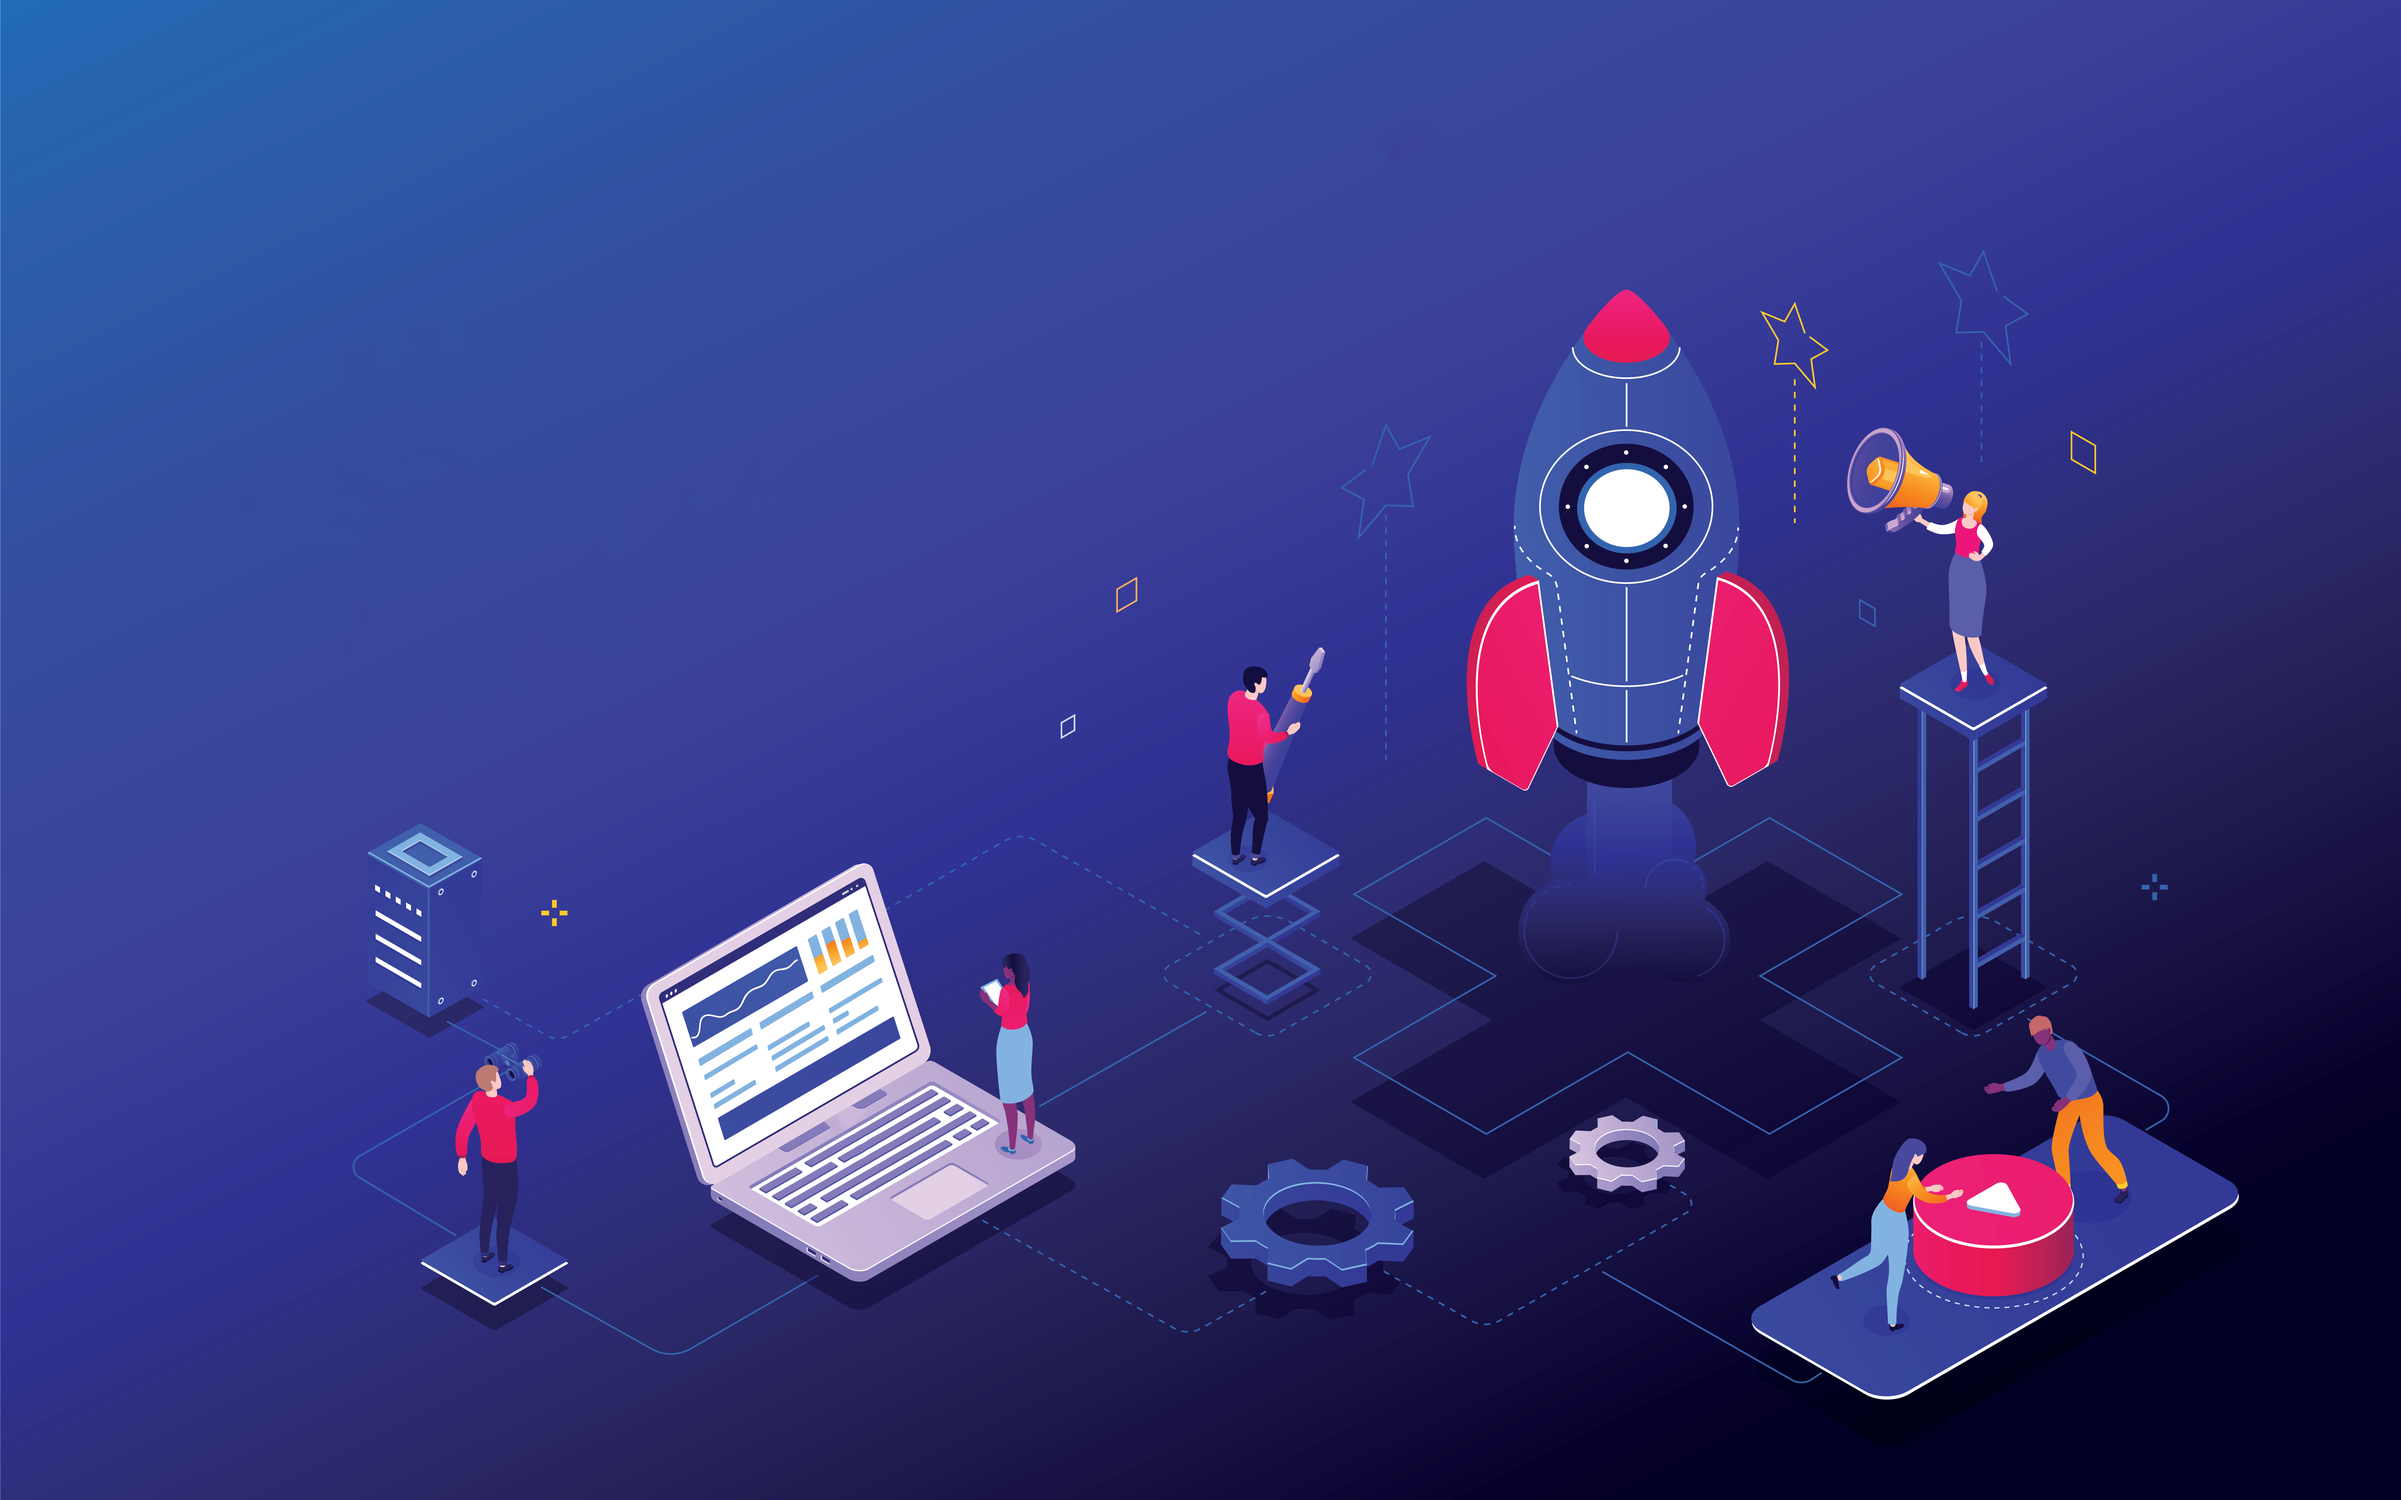
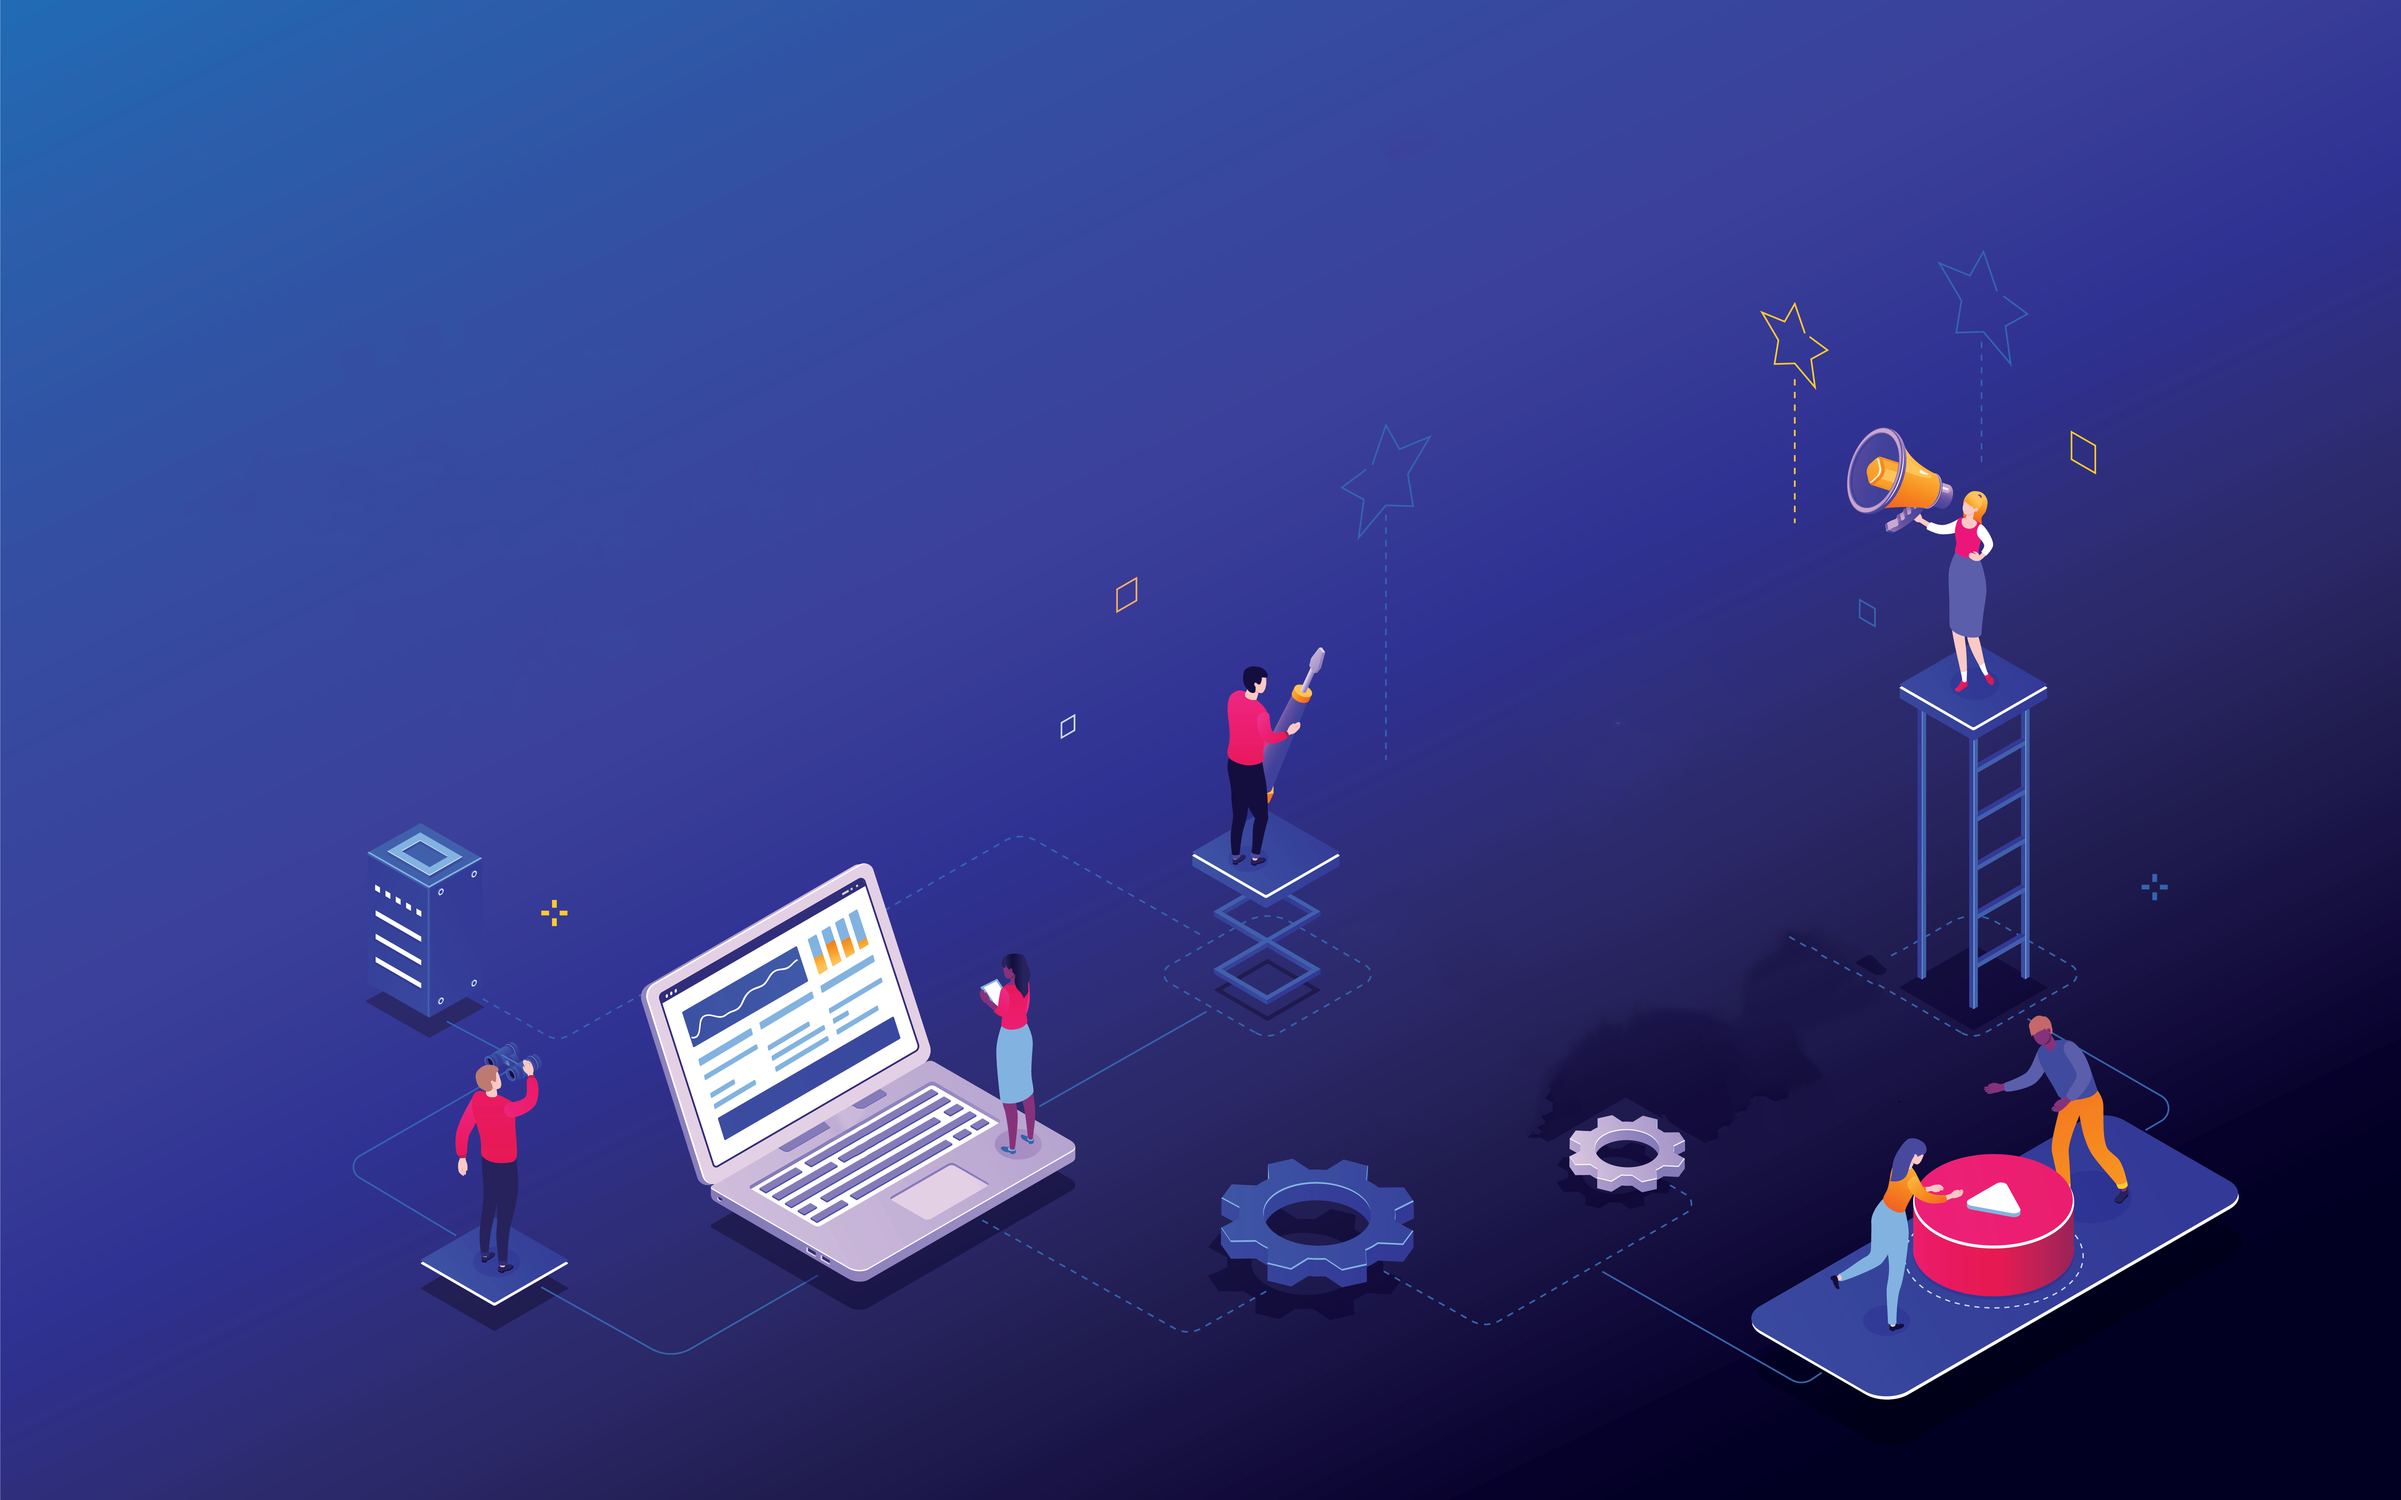
final styles

Changed region(s): [[0.5616, 0.1872, 0.7488, 0.6863]]

diff --git a/react-app/src/components/auth/SignUpForm.js b/react-app/src/components/auth/SignUpForm.js
@@ -55,75 +55,76 @@ const SignUpForm = ({authenticated, setAuthenticated}) => {
   return (
     <Container>
       <Row className="d-flex justify-content-center form-wrapper-register ">
-        <form
-          onSubmit={onSignUp}
-          className="form"
-        >
+        <form onSubmit={onSignUp} className="form">
           <p className="tiny-text welcome">Welcome!</p>
           <h1 className="form-title">Sign up</h1>
           <Row className="name-box">
-          <Col className="label-wrapper">
-            <label className="label">First Name</label>
-            <input
-              type="text"
-              name="firstname"
-              onChange={updateFirstname}
-              value={firstname}
-              className="input"
-            ></input>
-          </Col>
-          <Col className="label-wrapper">
-            <label className="label">Last Name</label>
-            <input
-              type="text"
-              name="lastname"
-              onChange={updateLastname}
-              value={lastname}
-              className="input"
-            ></input>
-          </Col>
+            <Col className="label-wrapper">
+              <label className="label">First Name</label>
+              <input
+                type="text"
+                name="firstname"
+                onChange={updateFirstname}
+                value={firstname}
+                className="input"
+              ></input>
+            </Col>
+            <Col className="label-wrapper">
+              <label className="label">Last Name</label>
+              <input
+                type="text"
+                name="lastname"
+                onChange={updateLastname}
+                value={lastname}
+                className="input"
+              ></input>
+            </Col>
           </Row>
-          <div className="label-wrapper">
-            <label className="label">User Name</label>
-            <input
-              type="text"
-              name="username"
-              onChange={updateUsername}
-              value={username}
-              className="input"
-            ></input>
-          </div>
-          <div className="label-wrapper">
-            <label className="label">Email</label>
-            <input
-              type="text"
-              name="email"
-              onChange={updateEmail}
-              value={email}
-              className="input"
-            ></input>
-          </div>
-          <div className="label-wrapper">
-            <label className="label">Password</label>
-            <input
-              type="password"
-              name="password"
-              onChange={updatePassword}
-              value={password}
-              className="input"
-            ></input>
-          </div>
-          <div className="label-wrapper">
-            <label className="label">Repeat Password</label>
-            <input
-              type="password"
-              name="repeat_password"
-              onChange={updateRepeatPassword}
-              value={repeatPassword}
-              required={true}
-              className="input"
-            ></input>
-          </div>
+          <Row className="name-box">
+            <Col className="label-wrapper">
+              <label className="label">User Name</label>
+              <input
+                type="text"
+                name="username"
+                onChange={updateUsername}
+                value={username}
+                className="input"
+              ></input>
+            </Col>
+            <Col className="label-wrapper">
+              <label className="label">Email</label>
+              <input
+                type="text"
+                name="email"
+                onChange={updateEmail}
+                value={email}
+                className="input"
+              ></input>
+            </Col>
+          </Row>
+          <Row className="name-box">
+            <Col className="label-wrapper">
+              <label className="label">Password</label>
+              <input
+                type="password"
+                name="password"
+                onChange={updatePassword}
+                value={password}
+                className="input"
+              ></input>
+            </Col>
+            <Col className="label-wrapper">
+              <label className="label">Repeat Password</label>
+              <input
+                type="password"
+                name="repeat_password"
+                onChange={updateRepeatPassword}
+                value={repeatPassword}
+                required={true}
+                className="input"
+              ></input>
+            </Col>
+          </Row>
           <button className="demo-button-home" type="submit">
             Sign Up
           </button>

diff --git a/react-app/src/index.css b/react-app/src/index.css
@@ -8,12 +8,17 @@
 /******* 404 page styles*/
 #root {
     height: calc(100vh);
-    background-image: linear-gradient(to bottom, #001c44, #1b1330, #1d0c1e, #15050f, #000000);
-    background-image: url("./components/images/homepage.png");
+    background-color: #191446;
+    background-image: linear-gradient(316deg,#191446 = 0%,  #281a3d 74%);
     font-family: 'Barlow', sans-serif;
     max-width: 100%;
     overflow: hidden;
     background-size: cover;
+}
+
+.home_image {
+    width: 650px;
+    position: relative;
 }
 
 html, body {
@@ -109,19 +114,19 @@ nav {
 }
 
 .active {
-    color: #11c900 !important;
+    color: #2ad45d !important;
     font-weight: 600;
-    text-shadow: #11c90077 0px 4px 10px, #11c90083 0px 1px 10px;
+    text-shadow: #001c4469 0px 4px 10px, #001c446e 0px 1px 10px;
 }
 
 a {
     font-weight: 400;
-    color: #687293 !important;
+    color:#5d677c !important;
 }
 
 .navbar_link:hover{
     text-decoration: underline;
-    text-decoration-color: #11c900;
+    text-decoration-color: #5d677c;
     text-decoration-thickness: 2px;
 }
 
@@ -167,7 +172,7 @@ a {
     font-family: 'Barlow', sans-serif;
     color: white;
     font-weight: 800;
-    font-size: 75px;
+    font-size: 65px;
 }
 
 .main-header-container {
@@ -179,8 +184,8 @@ a {
 }
 
 .home-cta {
-    color: #11c900;
-    font-weight: 300;
+    color: #50ca2a;
+    font-weight: 800;
 }
 
 
@@ -191,7 +196,7 @@ a {
 }
 
 
-.demo-button-home  {background-image: linear-gradient(to right, #2d762b 0%, #4e4376  51%, #2b7653  100%)}
+.demo-button-home  {background-image: linear-gradient(to right, #41e23c 0%, #14c82c  51%, #2b7653  100%)}
 .demo-button-home  {
 margin-top: 30px;
 padding: 15px 45px;

diff --git a/react-app/src/components/static_pages/Home.js b/react-app/src/components/static_pages/Home.js
@@ -1,6 +1,6 @@
 import React from 'react'
 import { Row, Col, Container } from "react-bootstrap/";
-import spaceman from "../images/spaceman2.png";
+import spaceman from "../images/spaceship.png";
 import DemoButton from "../auth/DemoButton"
 
 const Home = ({ setAuthenticated }) => {
@@ -25,9 +25,12 @@ const Home = ({ setAuthenticated }) => {
             </h1>
             <DemoButton setAuthenticated={setAuthenticated}/>
           </Col>
-          <Col className="main-header-container">
-                    
-          </Col>
+                    <img
+                        alt="home-spaceman"
+              src={spaceman}
+              width="600"
+              className="animate__animated animate__shakeY home_image"
+            />
         </Row>
         <Row>
           <Col>

diff --git a/react-app/src/components/auth/LoginForm.css b/react-app/src/components/auth/LoginForm.css
@@ -4,12 +4,13 @@
     align-self: center;
     align-content: center;
     justify-content: center;
-    background-color: #202442;
+    background-image: linear-gradient(19deg, #15404b 0%, #341a7e 100%);
     width: 80%;
-    height: 100%;
-    padding: 40px;
+    height: 650px;
+    padding: 80px 60px;
     border-radius: 10px;
     box-shadow: rgba(0, 0, 0, 0.25) 0px 14px 28px, rgba(0, 0, 0, 0.22) 0px 10px 10px;
+    margin-bottom: 40px;
 }
 
 .label-wrapper {
